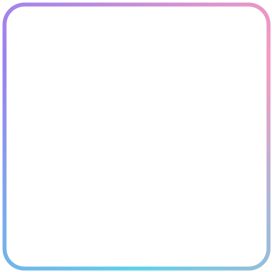
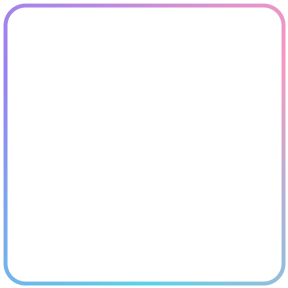
release: prepare WiiUNX2 v0.7.4
Increase clearance around the selected tile and include the verified GitHub roots needed by the console update check. Record the update-check hardware result and remaining install validation.

Changed region(s): [[0.0, 0.0, 1.0, 1.0]]

diff --git a/launcher/src/common/common.h b/launcher/src/common/common.h
@@ -7,7 +7,7 @@ extern "C" {
 
 #define LAUNCHIINE_VERSION "v0.1"
 /* Single source of the release version: the pause menu and launcher/tools/Package.ps1 read this line. */
-#define WIIUNX2_VERSION    "0.7.3"
+#define WIIUNX2_VERSION    "0.7.4"
 #define META_PATH          "/meta"
 
 #ifdef __cplusplus

diff --git a/MAINTAINING.md b/MAINTAINING.md
@@ -31,7 +31,7 @@ The render thread owns GUI/GPU resources. Workers return copied CPU metadata or 
 
 Applet return may preserve the process; games may exit/restart it. RAM caching can accelerate only the former. Re-enumeration remains necessary to check installed titles. GPU/font/icon recreation is intentional. The persistent name cache (launcher/src/game/NameCache.h, `wiiu/wiiunx2-names.cache` beside the recent-history file) is wired: GameList reads it lazily on the loader thread and MainWindow saves it right after the metadata pass. It stores title IDs, versions or homebrew file stamps, paths and display names, not installed games, icons or Aroma plugin state. It reuses the MetadataCache.h format and atomic writer. Installed titles are still enumerated on startup. Cached icons and other metadata are not wired and do not accelerate the installed-title scan; keep issue #4 open until hardware validation. MainWindow::saveView returns the selected title and rebuildView restores it until the user navigates. reconcile() (launcher/src/menu/Reconcile.h) is NOT wired: the window is recreated on foreground return, so it has nothing to diff.
 
-Layout uses logical 1280x720 coordinates. The software row has 256-pixel tiles and a 272-pixel step; the dock has nine actions. Selected-tile outline pulse (launcher/src/gui/SelectionPulse.h, GameIcon.cpp): the cyan-to-blue outline RGB is scaled by a sine between 0.80 and 1.20 over a fixed 2800 ms period (amplitude and period are constants, not settings). The selected app border keeps one rounded-square geometry and crossfades between eight full-outline gradient frames, shifting cyan, purple and pink colors smoothly around the border over a 480-frame period. Its 4-pixel outward offset keeps the outline outside the 256-pixel tile. The selected dock/profile gradient ring rotates at 0.75 degrees per menu frame. A Mii avatar is drawn over a solid white circular backing. Host tests cover the pulse, color progression and generated frame bounds; border rendering still needs console validation. The TV uses 1x AA without the TV-only FXAA post-process so small text remains unfiltered; this change needs console comparison against the DRC. TV output still uses less hardware AA than the DRC. TVii is a software-row entry with its native applet launch path. The disc tile uses a reserved ID and is revalidated before launch. Current disc polling queries title information every two seconds after loading (backing off to 16 seconds after repeated errors); it is not proven to match stock Nintendo timing. Wii discs get no tile and only a one-time unsupported notice; see DISCS.md for the disc state rules and the unknowns, which include whether a Wii disc appears in the ODD list at all.
+Layout uses logical 1280x720 coordinates. The software row has 256-pixel tiles and a 272-pixel step; the dock has nine actions. Selected-tile outline pulse (launcher/src/gui/SelectionPulse.h, GameIcon.cpp): the cyan-to-blue outline RGB is scaled by a sine between 0.80 and 1.20 over a fixed 2800 ms period (amplitude and period are constants, not settings). The selected app border keeps one rounded-square geometry and crossfades between eight full-outline gradient frames, shifting cyan, purple and pink colors smoothly around the border over a 480-frame period. Its 288-pixel frame leaves an 8-pixel clear gap around the 256-pixel tile while fitting within the spacing to neighboring tiles. The selected dock/profile gradient ring rotates at 0.75 degrees per menu frame. A Mii avatar is drawn over a solid white circular backing. Host tests cover the pulse, color progression and generated frame gap; border rendering still needs console validation. The TV uses 1x AA without the TV-only FXAA post-process so small text remains unfiltered; this change needs console comparison against the DRC. TV output still uses less hardware AA than the DRC. TVii is a software-row entry with its native applet launch path. The disc tile uses a reserved ID and is revalidated before launch. Current disc polling queries title information every two seconds after loading (backing off to 16 seconds after repeated errors); it is not proven to match stock Nintendo timing. Wii discs get no tile and only a one-time unsupported notice; see DISCS.md for the disc state rules and the unknowns, which include whether a Wii disc appears in the ODD list at all.
 
 Default sort is recent. Native PDM statistics give last-played days for the active user, not exact same-day order. Locally dated launch requests break ties and cover homebrew; they do not prove a game actually ran. Switching users resets local/native history state. The row starts leftmost until the first navigation gesture; later metadata arrivals preserve the chosen title.
 

diff --git a/CHANGELOG.md b/CHANGELOG.md
@@ -1,5 +1,21 @@
 # WiiUNX2 changelog
 
+## 0.7.4 — Stable release
+
+- Increase the gap between the selected app's animated gradient border and its
+  icon to eight logical pixels.
+- Bundle the GitHub trust anchors used by the verified in-app update check.
+
+### Validation and known limitations
+
+- The user reports that a Wii U running 0.7.3 now completes the update check
+  without an HTTPS error and correctly reports 0.7.3 as up to date. This
+  confirms the check-only path in that setup, not downloading or installing
+  an update.
+- The generated focus-frame clearance and updater trust-bundle checks pass on
+  the host. Console validation of the new border spacing, downloading,
+  installation, and rollback is still required.
+
 ## 0.7.3 — Stable release
 
 - Correct the account-selection heading from "Select a user" to "Select an

diff --git a/README.md b/README.md
@@ -5,7 +5,7 @@ horizontal software row, touch navigation, search, sorting, user selection,
 disc discovery and homebrew launching. It is not affiliated with, endorsed by
 or sponsored by Nintendo.
 
-The v0.7.2 release does not bundle Nintendo firmware, game files,
+The v0.7.4 release does not bundle Nintendo firmware, game files,
 console system files, or recorded Nintendo audio. Its optional UI cues are
 original synthetic sounds generated without reference recordings. Game icons
 are read from software installed on the user's console and are not distributed.
